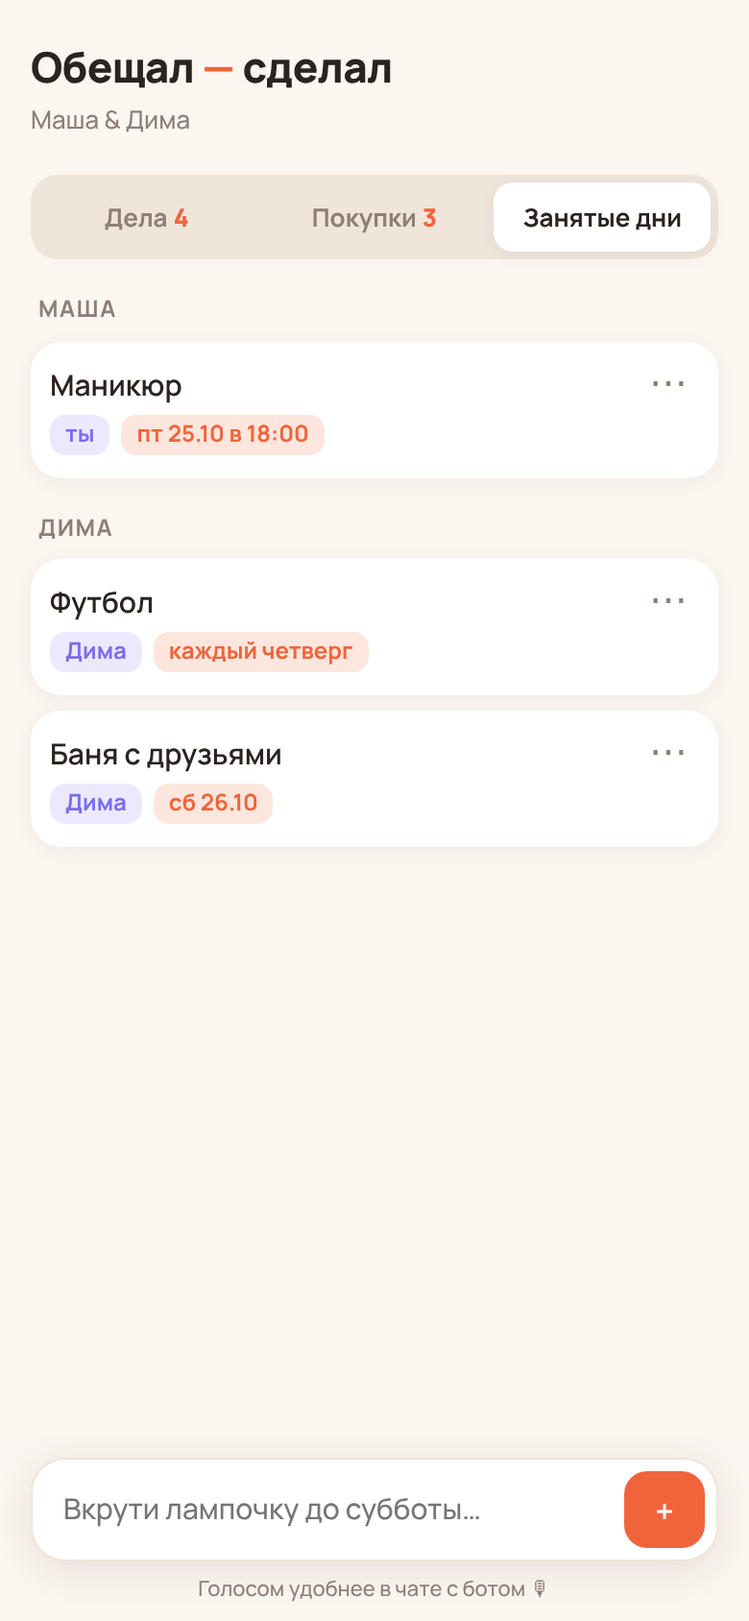
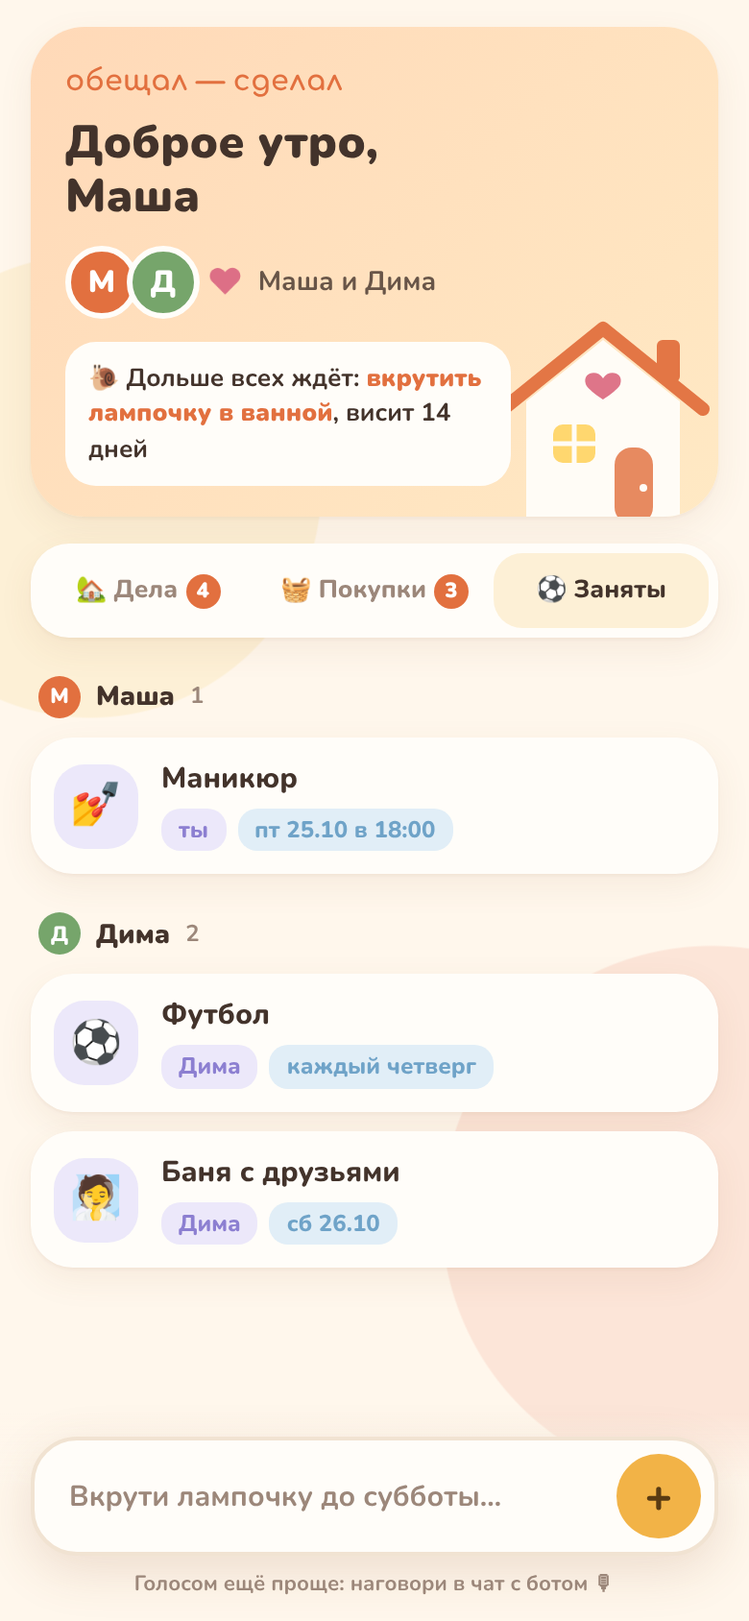
Мини-приложение: уютный семейный дизайн
Домик с парой в шапке, приветствие по времени суток, «дольше всех ждёт»,
картинки к делам по словам, сердечко вместо галочки, тёплая тёмная тема.

Claude-Session: https://claude.ai/code/session_01K4WBGGq4fEqRaNC21ns6ax

diff --git a/webapp/index.html b/webapp/index.html
@@ -6,95 +6,166 @@
 <title>Обещал — сделал</title>
 <script src="https://telegram.org/js/telegram-web-app.js"></script>
 <link rel="preconnect" href="https://fonts.googleapis.com">
-<link href="https://fonts.googleapis.com/css2?family=Manrope:wght@500;600;700;800&display=swap" rel="stylesheet">
+<link href="https://fonts.googleapis.com/css2?family=Comfortaa:wght@700&family=Nunito:wght@600;700;800;900&display=swap" rel="stylesheet">
 <style>
 :root{
-  --bg:#FBF6F0; --card:#FFFFFF; --ink:#2A2320; --muted:#8C7F77; --line:#EFE5DB;
-  --accent:#F0643C; --accent-soft:#FDE6DD; --ok:#3BA776; --ok-soft:#E1F4EA;
-  --busy:#7A6CF0; --busy-soft:#ECE9FE; --event:#E0457B; --event-soft:#FCE4EE; --shadow:0 2px 10px rgba(80,50,30,.06);
+  --bg:#FFF7EC; --paper:#FFFDF9; --ink:#43332B; --muted:#9C877A; --line:#F1E3D2;
+  --terra:#E2703F; --terra-soft:#FCE5D8; --honey:#F2B347; --honey-soft:#FDF0D6;
+  --sage:#76A56B; --sage-soft:#E5F0DF; --rose:#DD6F86; --rose-soft:#FBE3E8;
+  --lav:#8C7FD1; --lav-soft:#ECE8FA; --sky:#6FA3C8; --sky-soft:#E1EEF7;
+  --hero1:#FFD9B8; --hero2:#FFE9C4; --shadow:0 6px 18px rgba(140,90,50,.08), 0 1px 2px rgba(140,90,50,.06);
+  --window:#FFD66B;
 }
 @media (prefers-color-scheme: dark){
   :root:not([data-theme="light"]){
-    --bg:#17130F; --card:#221C18; --ink:#F4ECE6; --muted:#A3958B; --line:#332A24;
-    --accent:#FF7A52; --accent-soft:#3A2219; --ok:#4CC08A; --ok-soft:#1B3328;
-    --busy:#9C90FF; --busy-soft:#27234A; --event:#FF6A9C; --event-soft:#3D1D2A; --shadow:none;
+    --bg:#1F1813; --paper:#2A211B; --ink:#F5E9DF; --muted:#AE9888; --line:#3A2E26;
+    --terra:#F08A5D; --terra-soft:#43291D; --honey:#F5C266; --honey-soft:#3F3220;
+    --sage:#93C487; --sage-soft:#26331F; --rose:#F08EA2; --rose-soft:#42232B;
+    --lav:#A99DEB; --lav-soft:#2D2843; --sky:#8FBEDF; --sky-soft:#1F2F3B;
+    --hero1:#4A2F22; --hero2:#3D3020; --shadow:0 6px 18px rgba(0,0,0,.25); --window:#F5C266;
   }
 }
 :root[data-theme="dark"]{
-  --bg:#17130F; --card:#221C18; --ink:#F4ECE6; --muted:#A3958B; --line:#332A24;
-  --accent:#FF7A52; --accent-soft:#3A2219; --ok:#4CC08A; --ok-soft:#1B3328;
-  --busy:#9C90FF; --busy-soft:#27234A; --event:#FF6A9C; --event-soft:#3D1D2A; --shadow:none;
+  --bg:#1F1813; --paper:#2A211B; --ink:#F5E9DF; --muted:#AE9888; --line:#3A2E26;
+  --terra:#F08A5D; --terra-soft:#43291D; --honey:#F5C266; --honey-soft:#3F3220;
+  --sage:#93C487; --sage-soft:#26331F; --rose:#F08EA2; --rose-soft:#42232B;
+  --lav:#A99DEB; --lav-soft:#2D2843; --sky:#8FBEDF; --sky-soft:#1F2F3B;
+  --hero1:#4A2F22; --hero2:#3D3020; --shadow:0 6px 18px rgba(0,0,0,.25); --window:#F5C266;
 }
 *{box-sizing:border-box;-webkit-tap-highlight-color:transparent}
-body{margin:0;background:var(--bg);color:var(--ink);font:500 15px/1.4 Manrope,system-ui,sans-serif;padding:0 16px 120px}
-header{padding:20px 0 8px}
-.brand{font-weight:800;font-size:22px;letter-spacing:-.3px}
-.brand span{color:var(--accent)}
-.pair{color:var(--muted);font-size:13px;margin-top:2px}
-.invite{background:var(--accent-soft);border-radius:16px;padding:14px;margin:12px 0;display:flex;gap:12px;align-items:center}
+body{margin:0;background:var(--bg);color:var(--ink);font:700 15px/1.4 Nunito,system-ui,sans-serif;padding:0 16px 130px;
+  background-image:radial-gradient(circle at 12% 30%, var(--honey-soft) 0 120px, transparent 121px),
+                   radial-gradient(circle at 95% 75%, var(--terra-soft) 0 140px, transparent 141px);
+  background-attachment:fixed}
+button{font-family:inherit}
+
+/* the hero: a little house with the couple inside */
+.hero{position:relative;margin:14px 0 6px;padding:18px 18px 16px;border-radius:28px;overflow:hidden;
+  background:linear-gradient(135deg,var(--hero1),var(--hero2));box-shadow:var(--shadow)}
+.hero svg.house{position:absolute;right:-6px;bottom:-4px;width:132px;height:118px;opacity:.95}
+.brand{font-family:Comfortaa,Nunito,sans-serif;font-size:15px;color:var(--terra);letter-spacing:.2px}
+.hello{font-size:24px;font-weight:900;line-height:1.15;margin:8px 0 12px;max-width:66%}
+.pair{display:flex;align-items:center;gap:8px}
+.ava{width:38px;height:38px;border-radius:50%;display:grid;place-items:center;font-weight:900;font-size:16px;color:#fff;border:3px solid var(--paper)}
+.ava.me{background:var(--terra)}
+.ava.you{background:var(--sage);margin-left:-14px}
+.ava.wait{background:var(--line);color:var(--muted);margin-left:-14px}
+.heart{color:var(--rose);font-size:18px;margin-left:-4px;animation:beat 2.4s infinite}
+@keyframes beat{0%,100%{transform:scale(1)}12%{transform:scale(1.25)}24%{transform:scale(1)}}
+.names{font-size:14px;color:var(--ink);opacity:.8}
+.oldest{margin:12px 0 0;padding:10px 12px;border-radius:16px;background:var(--paper);font-size:13px;max-width:72%;position:relative;z-index:1}
+.oldest b{color:var(--terra)}
+
+.invite{background:var(--paper);border:2px dashed var(--honey);border-radius:22px;padding:14px;margin:12px 0;display:flex;gap:12px;align-items:center}
 .invite p{margin:0;flex:1;font-size:13px}
-.btn{border:0;border-radius:12px;background:var(--accent);color:#fff;font:700 14px Manrope,sans-serif;padding:10px 14px;cursor:pointer}
-.tabs{display:flex;gap:6px;background:var(--line);padding:4px;border-radius:14px;margin:12px 0 16px;position:sticky;top:8px;z-index:2}
-.tabs button{flex:1;border:0;background:none;color:var(--muted);font:700 13px Manrope,sans-serif;padding:9px 4px;border-radius:10px;cursor:pointer}
-.tabs button.on{background:var(--card);color:var(--ink);box-shadow:var(--shadow)}
-.tabs b{font-weight:800;color:var(--accent);margin-left:3px}
-h3{font-size:12px;text-transform:uppercase;letter-spacing:.8px;color:var(--muted);margin:18px 4px 8px}
-.item{background:var(--card);border-radius:16px;padding:12px 12px 12px 10px;margin-bottom:8px;display:flex;gap:10px;align-items:flex-start;box-shadow:var(--shadow);transition:opacity .3s,transform .3s}
-.item.gone{opacity:0;transform:translateX(40px)}
-.check{width:26px;height:26px;border-radius:50%;border:2px solid var(--line);flex:none;margin-top:1px;cursor:pointer;display:grid;place-items:center;color:transparent;background:none;padding:0}
-.check:hover{border-color:var(--ok)}
-.item.done .check{background:var(--ok);border-color:var(--ok);color:#fff}
+.btn{border:0;border-radius:16px;background:var(--terra);color:#fff;font-weight:800;font-size:14px;padding:11px 16px;cursor:pointer}
+
+.tabs{display:flex;gap:6px;background:var(--paper);padding:5px;border-radius:20px;margin:14px 0 6px;position:sticky;top:8px;z-index:2;box-shadow:var(--shadow)}
+.tabs button{flex:1;border:0;background:none;color:var(--muted);font-weight:800;font-size:13px;padding:10px 4px;border-radius:15px;cursor:pointer;white-space:nowrap}
+.tabs button.on{background:var(--honey-soft);color:var(--ink)}
+.tabs b{display:inline-block;min-width:18px;padding:0 5px;margin-left:4px;border-radius:9px;background:var(--terra);color:#fff;font-size:11px;line-height:18px}
+.tabs b:empty{display:none}
+
+h3{display:flex;align-items:center;gap:8px;font-size:14px;font-weight:900;color:var(--ink);margin:20px 4px 10px}
+h3 .dot{width:22px;height:22px;border-radius:50%;display:grid;place-items:center;font-size:11px;color:#fff}
+h3 small{font-weight:700;color:var(--muted);font-size:12px}
+
+.item{background:var(--paper);border-radius:22px;padding:12px;margin-bottom:10px;display:flex;gap:12px;align-items:center;
+  box-shadow:var(--shadow);transition:opacity .35s,transform .35s;cursor:pointer}
+.item.gone{opacity:0;transform:scale(.92) translateY(-6px)}
+.blob{width:44px;height:44px;border-radius:16px;display:grid;place-items:center;font-size:22px;flex:none}
+.k-task .blob{background:var(--honey-soft)} .k-event .blob{background:var(--rose-soft)}
+.k-buy .blob{background:var(--sage-soft)}  .k-busy .blob{background:var(--lav-soft)}
 .body{flex:1;min-width:0}
-.text{font-weight:600;word-wrap:break-word}
-.meta{display:flex;gap:6px;flex-wrap:wrap;margin-top:5px}
-.chip{font-size:12px;font-weight:700;padding:2px 8px;border-radius:8px;background:var(--line);color:var(--muted)}
-.chip.when{background:var(--accent-soft);color:var(--accent)}
-.chip.busy{background:var(--busy-soft);color:var(--busy)}
-.chip.event{background:var(--event-soft);color:var(--event)}
-.warn{font-size:12px;color:var(--event);margin-top:6px}
-.more{border:0;background:none;color:var(--muted);font-size:20px;line-height:1;padding:0 4px;cursor:pointer}
-.empty{text-align:center;color:var(--muted);padding:40px 20px}
-.empty .big{font-size:40px}
-.composer{position:fixed;left:0;right:0;bottom:0;padding:10px 16px calc(10px + env(safe-area-inset-bottom));background:linear-gradient(transparent,var(--bg) 30%)}
-.composer form{display:flex;gap:8px;background:var(--card);border-radius:18px;padding:6px 6px 6px 14px;box-shadow:0 4px 20px rgba(80,50,30,.12);border:1px solid var(--line)}
-.composer input{flex:1;border:0;background:none;color:var(--ink);font:500 15px Manrope,sans-serif;outline:none;min-width:0}
-.composer .hint{font-size:11px;color:var(--muted);text-align:center;margin-top:6px}
-.sheet{position:fixed;inset:0;background:rgba(0,0,0,.35);display:none;align-items:flex-end;z-index:5}
+.text{font-weight:800;word-wrap:break-word;line-height:1.25}
+.meta{display:flex;gap:6px;flex-wrap:wrap;margin-top:6px}
+.chip{font-size:12px;font-weight:800;padding:3px 9px;border-radius:10px;background:var(--line);color:var(--muted)}
+.chip.when{background:var(--sky-soft);color:var(--sky)}
+.chip.hang{background:var(--terra-soft);color:var(--terra)}
+.chip.both{background:var(--rose-soft);color:var(--rose)}
+.chip.busy{background:var(--lav-soft);color:var(--lav)}
+.warn{font-size:12px;color:var(--rose);margin-top:8px;padding:8px 10px;border-radius:12px;background:var(--rose-soft);font-weight:700}
+.check{width:34px;height:34px;border-radius:50%;border:2.5px solid var(--line);flex:none;cursor:pointer;display:grid;place-items:center;
+  color:transparent;background:none;padding:0;font-size:16px;transition:all .25s}
+.check:hover{border-color:var(--sage)}
+.item.done .check{background:var(--sage);border-color:var(--sage);color:#fff;transform:scale(1.1)}
+
+.empty{text-align:center;color:var(--muted);padding:36px 24px;background:var(--paper);border-radius:26px;margin-top:16px;box-shadow:var(--shadow)}
+.empty .big{font-size:46px;margin-bottom:8px}
+
+.composer{position:fixed;left:0;right:0;bottom:0;padding:12px 16px calc(12px + env(safe-area-inset-bottom));background:linear-gradient(transparent,var(--bg) 35%)}
+.composer form{display:flex;gap:8px;align-items:center;background:var(--paper);border-radius:24px;padding:7px 7px 7px 16px;box-shadow:0 8px 26px rgba(140,90,50,.16);border:2px solid var(--line)}
+.composer input{flex:1;border:0;background:none;color:var(--ink);font:700 15px Nunito,sans-serif;outline:none;min-width:0}
+.composer input::placeholder{color:var(--muted)}
+.composer .btn{width:44px;height:44px;padding:0;border-radius:50%;font-size:24px;line-height:1;background:var(--honey);color:#5A3B12}
+.composer .hint{font-size:11px;color:var(--muted);text-align:center;margin-top:7px}
+
+.sheet{position:fixed;inset:0;background:rgba(40,25,15,.4);display:none;align-items:flex-end;z-index:5}
 .sheet.on{display:flex}
-.sheet div{background:var(--card);width:100%;border-radius:20px 20px 0 0;padding:16px 16px calc(16px + env(safe-area-inset-bottom))}
-.sheet button{display:block;width:100%;text-align:left;border:0;background:none;color:var(--ink);font:600 16px Manrope,sans-serif;padding:13px 6px;border-bottom:1px solid var(--line);cursor:pointer}
-.sheet button.red{color:var(--event)}
-.toast{position:fixed;left:16px;right:16px;top:16px;background:var(--ink);color:var(--bg);border-radius:14px;padding:12px 14px;font-size:14px;z-index:9;transform:translateY(calc(-100% - 40px));transition:transform .3s}
+.sheet > div{background:var(--paper);width:100%;border-radius:28px 28px 0 0;padding:10px 18px calc(18px + env(safe-area-inset-bottom))}
+.sheet .grab{width:40px;height:5px;border-radius:3px;background:var(--line);margin:0 auto 12px}
+.sheet .title{font-weight:900;font-size:17px;margin:0 0 8px}
+.sheet button{display:flex;gap:12px;align-items:center;width:100%;text-align:left;border:0;background:none;color:var(--ink);font-weight:800;font-size:16px;padding:13px 6px;border-bottom:1px solid var(--line);cursor:pointer}
+.sheet button:last-child{border:0;color:var(--muted);justify-content:center}
+.sheet button.red{color:var(--rose)}
+
+.toast{position:fixed;left:16px;right:16px;top:14px;background:var(--ink);color:var(--bg);border-radius:20px;padding:13px 16px;font-size:14px;z-index:9;
+  transform:translateY(calc(-100% - 40px));transition:transform .35s cubic-bezier(.2,1.4,.4,1)}
 .toast.on{transform:none}
 </style>
 </head>
 <body>
-<header>
-  <div class="brand">Обещал <span>—</span> сделал</div>
-  <div class="pair" id="pair">Загружаю…</div>
-</header>
+<section class="hero" id="hero">
+  <svg class="house" viewBox="0 0 132 118" aria-hidden="true">
+    <path d="M14 58 L66 16 L118 58" fill="none" stroke="var(--terra)" stroke-width="7" stroke-linecap="round" stroke-linejoin="round"/>
+    <rect x="94" y="22" width="12" height="22" rx="3" fill="var(--terra)"/>
+    <path d="M26 54 L66 22 L106 54 L106 118 L26 118 Z" fill="var(--paper)"/>
+    <rect x="40" y="66" width="22" height="20" rx="5" fill="var(--window)"/>
+    <path d="M51 66 V86 M40 76 H62" stroke="var(--paper)" stroke-width="2.5"/>
+    <rect x="72" y="78" width="20" height="40" rx="9" fill="var(--terra)" opacity=".85"/>
+    <circle cx="87" cy="99" r="2" fill="var(--paper)"/>
+    <path d="M66 42 c-3-5-11-3-9 3 c1 3 9 8 9 8 s8-5 9-8 c2-6-6-8-9-3z" fill="var(--rose)"/>
+  </svg>
+  <div class="brand">обещал — сделал</div>
+  <div class="hello" id="hello">Загружаю…</div>
+  <div class="pair" id="pair"></div>
+  <div id="oldest"></div>
+</section>
 <div id="invite"></div>
 <nav class="tabs" id="tabs">
-  <button data-tab="tasks" class="on">Дела<b id="n-tasks"></b></button>
-  <button data-tab="buy">Покупки<b id="n-buy"></b></button>
-  <button data-tab="busy">Занятые дни</button>
+  <button data-tab="tasks" class="on">🏡 Дела<b id="n-tasks"></b></button>
+  <button data-tab="buy">🧺 Покупки<b id="n-buy"></b></button>
+  <button data-tab="busy">⚽ Заняты</button>
 </nav>
 <main id="list"></main>
 <div class="composer">
-  <form id="form"><input id="input" placeholder="Вкрути лампочку до субботы…" autocomplete="off" maxlength="500"><button class="btn">＋</button></form>
-  <div class="hint">Голосом удобнее в чате с ботом 🎙</div>
+  <form id="form"><input id="input" placeholder="Вкрути лампочку до субботы…" autocomplete="off" maxlength="500"><button class="btn" aria-label="Добавить">+</button></form>
+  <div class="hint">Голосом ещё проще: наговори в чат с ботом 🎙</div>
 </div>
-<div class="sheet" id="sheet"><div id="sheet-body"></div></div>
+<div class="sheet" id="sheet"><div><div class="grab"></div><div id="sheet-body"></div></div></div>
 <div class="toast" id="toast"></div>
 <script>
 const tg = window.Telegram && Telegram.WebApp;
 const initData = tg ? tg.initData : "";
 const DEMO = !initData;
 let S = null, tab = "tasks";
-if (tg) { tg.ready(); tg.expand(); }
+if (tg) { tg.ready(); tg.expand(); try { tg.setHeaderColor("bg_color"); } catch(e){} }
 
 const $ = id => document.getElementById(id);
 const esc = s => String(s).replace(/[&<>"]/g, c => ({"&":"&amp;","<":"&lt;",">":"&gt;",'"':"&quot;"}[c]));
+
+// A homely picture for each line: by words in the text, else by kind.
+const PICS = [
+  [/корм/,"🐾"],[/лампоч|свет|люстр/,"💡"],[/кот|кош/,"🐈"],[/собак|пес|выгул/,"🐕"],[/полк|повес|дрел|сверл|шуруп/,"🪚"],
+  [/кран|сантех|труб|смесит/,"🚰"],[/мусор/,"🗑"],[/посуд/,"🍽"],[/стир|белье/,"🧺"],[/убор|пылесос|пол\b|окн/,"🧽"],
+  [/мам|родител|дач/,"🏡"],[/кино|фильм/,"🍿"],[/ресторан|ужин|кафе/,"🍷"],[/день рожд|годовщин|подар/,"🎁"],
+  [/врач|ветеринар|больниц|анализ/,"🩺"],[/машин|шин|авто|сто\b/,"🚗"],[/оплат|счет|квартплат|интернет/,"💳"],
+  [/футбол/,"⚽"],[/хоккей/,"🏒"],[/бан[яеию]|сауна/,"🧖"],[/рыбал/,"🎣"],[/маникюр|ногт/,"💅"],[/йог|пилатес|зал|трениров/,"🧘"],
+  [/молок|кефир|сыр|йогурт/,"🥛"],[/хлеб|батон/,"🍞"],[/батарейк/,"🔋"],[/яйц/,"🥚"],[/фрукт|яблок|банан/,"🍎"],
+  [/овощ|картош|морков|помидор/,"🥕"],[/мяс|куриц|фарш/,"🍗"],[/кофе|чай/,"☕"],[/пиво|вино/,"🍷"],[/порош|мыл|шампун|бумаг/,"🧴"],
+];
+const KIND_PIC = {task:"🔧", event:"💞", buy:"🛍", busy:"🗓"};
+const pic = it => (PICS.find(([re]) => re.test(it.text.toLowerCase())) || [0, KIND_PIC[it.kind]])[1];
 
 function demoState(){
   return {brand:"Обещал — сделал", me:{id:1,name:"Маша"}, partner:{id:2,name:"Дима"}, invite:"", items:[
@@ -134,27 +205,47 @@ function demoApi(path, opts){
 function toast(text){ const t=$("toast"); t.textContent=text; t.classList.add("on"); clearTimeout(t._h); t._h=setTimeout(()=>t.classList.remove("on"),4500); }
 
 async function load(){
-  try { S = await api("/api/state"); } catch(e){ $("pair").textContent = e.message; return; }
+  try { S = await api("/api/state"); } catch(e){ $("hello").textContent = e.message; return; }
   render();
 }
 
+function greeting(){
+  const h = new Date().getHours();
+  return h < 5 ? "Доброй ночи" : h < 12 ? "Доброе утро" : h < 18 ? "Добрый день" : "Добрый вечер";
+}
+const initial = n => esc((n || "?").trim().charAt(0).toUpperCase());
+
 function itemHtml(it){
   const chips = [];
-  if (it.kind !== "buy") chips.push(`<span class="chip ${it.kind==="busy"?"busy":it.kind==="event"?"event":""}">${esc(it.assignee==null?"вместе":it.assignee===S.me.id?"ты":it.assignee_name)}</span>`);
-  if (it.when) chips.push(`<span class="chip when">${esc(it.when)}</span>`);
-  const warn = (it.warnings||[]).map(w => `<div class="warn">${esc(w)}</div>`).join("");
-  const check = it.kind === "busy" ? "" : `<button class="check" data-done="${it.id}" aria-label="Сделано">✓</button>`;
-  return `<div class="item" id="i${it.id}">${check}<div class="body"><div class="text">${esc(it.text)}</div>${chips.length?`<div class="meta">${chips.join("")}</div>`:""}${warn}</div><button class="more" data-more="${it.id}" aria-label="Ещё">⋯</button></div>`;
+  if (it.kind !== "buy") {
+    const who = it.assignee == null ? "вместе" : it.assignee === S.me.id ? "ты" : it.assignee_name;
+    chips.push(`<span class="chip ${it.kind === "busy" ? "busy" : it.assignee == null ? "both" : ""}">${esc(who)}</span>`);
+  }
+  if (it.when) chips.push(`<span class="chip ${it.when.startsWith("висит") ? "hang" : "when"}">${esc(it.when)}</span>`);
+  const warn = (it.warnings || []).map(w => `<div class="warn">${esc(w)}</div>`).join("");
+  const check = it.kind === "busy" ? "" : `<button class="check" data-done="${it.id}" aria-label="Сделано">♥</button>`;
+  return `<div class="item k-${it.kind}" id="i${it.id}" data-more="${it.id}"><div class="blob">${pic(it)}</div>
+    <div class="body"><div class="text">${esc(it.text)}</div>${chips.length ? `<div class="meta">${chips.join("")}</div>` : ""}${warn}</div>${check}</div>`;
 }
 
-function group(title, items){ return items.length ? `<h3>${esc(title)}</h3>` + items.map(itemHtml).join("") : ""; }
+function group(title, items, dot){
+  if (!items.length) return "";
+  return `<h3>${dot || ""}${esc(title)} <small>${items.length}</small></h3>` + items.map(itemHtml).join("");
+}
+const dot = (name, color) => `<span class="dot" style="background:var(${color})">${initial(name)}</span>`;
 
 function render(){
   const me = S.me, p = S.partner;
-  $("pair").textContent = p ? `${me.name} & ${p.name}` : `${me.name} · ждём вторую половину`;
-  $("invite").innerHTML = (!p && S.invite) ? `<div class="invite"><p>Позови партнёра, иначе напоминать будет некому. Бот уже точит сарказм.</p><button class="btn" id="share">Позвать</button></div>` : "";
+  $("hello").textContent = `${greeting()}, ${me.name}`;
+  $("pair").innerHTML = `<span class="ava me">${initial(me.name)}</span>` +
+    (p ? `<span class="ava you">${initial(p.name)}</span><span class="heart">♥</span><span class="names">${esc(me.name)} и ${esc(p.name)}</span>`
+       : `<span class="ava wait">?</span><span class="names">ждём вторую половину</span>`);
+  const hanging = S.items.filter(i => i.kind === "task" && /^висит/.test(i.when || ""))
+                         .sort((a, b) => parseInt(b.when.slice(6)) - parseInt(a.when.slice(6)))[0];
+  $("oldest").innerHTML = hanging ? `<div class="oldest">🐌 Дольше всех ждёт: <b>${esc(hanging.text.toLowerCase())}</b>, ${esc(hanging.when)}</div>` : "";
+  $("invite").innerHTML = (!p && S.invite) ? `<div class="invite"><p>Позови свою половину, иначе напоминать будет некому. Бот уже точит сарказм 😏</p><button class="btn" id="share">Позвать</button></div>` : "";
   if ($("share")) $("share").onclick = () => {
-    const url = "https://t.me/share/url?url=" + encodeURIComponent(S.invite) + "&text=" + encodeURIComponent("Давай вести наш семейный планер 😏");
+    const url = "https://t.me/share/url?url=" + encodeURIComponent(S.invite) + "&text=" + encodeURIComponent("Давай вести наш семейный планер 🏡");
     tg ? tg.openTelegramLink(url) : window.open(url);
   };
   const by = k => S.items.filter(i => k === "tasks" ? (i.kind === "task" || i.kind === "event") : i.kind === k);
@@ -164,43 +255,46 @@ function render(){
   const items = by(tab);
   let html;
   if (!items.length) {
-    const e = {tasks:["🕊","Дел нет. Подозрительно спокойно.<br>Напишите, что обещали друг другу."],
-               buy:["🛒","Список покупок пуст.<br>Холодильник, видимо, тоже скоро будет."],
-               busy:["⚽","Занятых дней нет.<br>Например: «по четвергам у меня футбол»."]}[tab];
+    const e = {tasks:["🕯","Дел нет. Подозрительно уютно.<br>Напишите, что обещали друг другу."],
+               buy:["🧺","Корзинка пуста.<br>Холодильник, видимо, тоже скоро будет."],
+               busy:["🛋","Все дома, никто не занят.<br>Например: «по четвергам у меня футбол»."]}[tab];
     html = `<div class="empty"><div class="big">${e[0]}</div>${e[1]}</div>`;
   } else if (tab === "tasks") {
-    html = group("Твои", items.filter(i => i.assignee === me.id))
-         + group(p ? `Дела: ${p.name}` : "Партнёра", items.filter(i => p && i.assignee === p.id))
-         + group("Общие", items.filter(i => i.assignee == null));
+    html = group("Твои дела", items.filter(i => i.assignee === me.id), dot(me.name, "--terra"))
+         + (p ? group(`Дела: ${p.name}`, items.filter(i => i.assignee === p.id), dot(p.name, "--sage")) : "")
+         + group("Вместе", items.filter(i => i.assignee == null), `<span class="dot" style="background:var(--rose)">♥</span>`);
   } else if (tab === "busy") {
-    html = group(`${me.name}`, items.filter(i => i.assignee === me.id)) + (p ? group(p.name, items.filter(i => i.assignee === p.id)) : "");
-  } else html = items.map(itemHtml).join("");
+    html = group(me.name, items.filter(i => i.assignee === me.id), dot(me.name, "--terra"))
+         + (p ? group(p.name, items.filter(i => i.assignee === p.id), dot(p.name, "--sage")) : "");
+  } else html = `<h3>🧺 Купить <small>${items.length}</small></h3>` + items.map(itemHtml).join("");
   $("list").innerHTML = html;
 }
 
 $("tabs").onclick = e => { const b = e.target.closest("button"); if (b) { tab = b.dataset.tab; render(); } };
 
 $("list").onclick = async e => {
-  const d = e.target.closest("[data-done]"), m = e.target.closest("[data-more]");
+  const d = e.target.closest("[data-done]");
   if (d) {
-    const id = +d.dataset.done, el = $("i"+id);
+    const id = +d.dataset.done, el = $("i" + id);
     el.classList.add("done"); tg && tg.HapticFeedback && tg.HapticFeedback.notificationOccurred("success");
     try { await api(`/api/items/${id}/done`, {method:"POST"}); } catch(err){ toast(err.message); el.classList.remove("done"); return; }
-    setTimeout(() => { el.classList.add("gone"); setTimeout(() => { S.items = S.items.filter(i => i.id !== id); render(); }, 300); }, 400);
-    toast(["Готово! Партнёр уже в курсе 😏","Свершилось. Бот удивлён.","Записано в летопись подвигов."][id % 3]);
+    setTimeout(() => { el.classList.add("gone"); setTimeout(() => { S.items = S.items.filter(i => i.id !== id); render(); }, 350); }, 450);
+    toast(["Готово! Вторая половина уже в курсе 😏","Свершилось. Бот удивлён.","Записано в семейную летопись подвигов."][id % 3]);
+    return;
   }
+  const m = e.target.closest("[data-more]");
   if (m) openSheet(S.items.find(i => i.id === +m.dataset.more));
 };
 
 function openSheet(it){
   const rows = [];
   if (it.kind === "task" || it.kind === "event") {
-    rows.push(`<button data-who="me">👤 Это на мне</button>`);
-    if (S.partner) rows.push(`<button data-who="partner">👫 Отдать: ${esc(S.partner.name)}</button>`);
-    rows.push(`<button data-who="both">👥 Вместе</button>`);
+    rows.push(`<button data-who="me">🙋 Это на мне</button>`);
+    if (S.partner) rows.push(`<button data-who="partner">🤝 Передать: ${esc(S.partner.name)}</button>`);
+    rows.push(`<button data-who="both">💞 Делаем вместе</button>`);
   }
   rows.push(`<button class="red" data-del="1">🗑 Удалить</button><button data-close="1">Отмена</button>`);
-  $("sheet-body").innerHTML = `<h3 style="margin-top:0">${esc(it.text)}</h3>` + rows.join("");
+  $("sheet-body").innerHTML = `<div class="title">${pic(it)} ${esc(it.text)}</div>` + rows.join("");
   $("sheet").classList.add("on");
   $("sheet").onclick = async e => {
     const b = e.target.closest("button");
